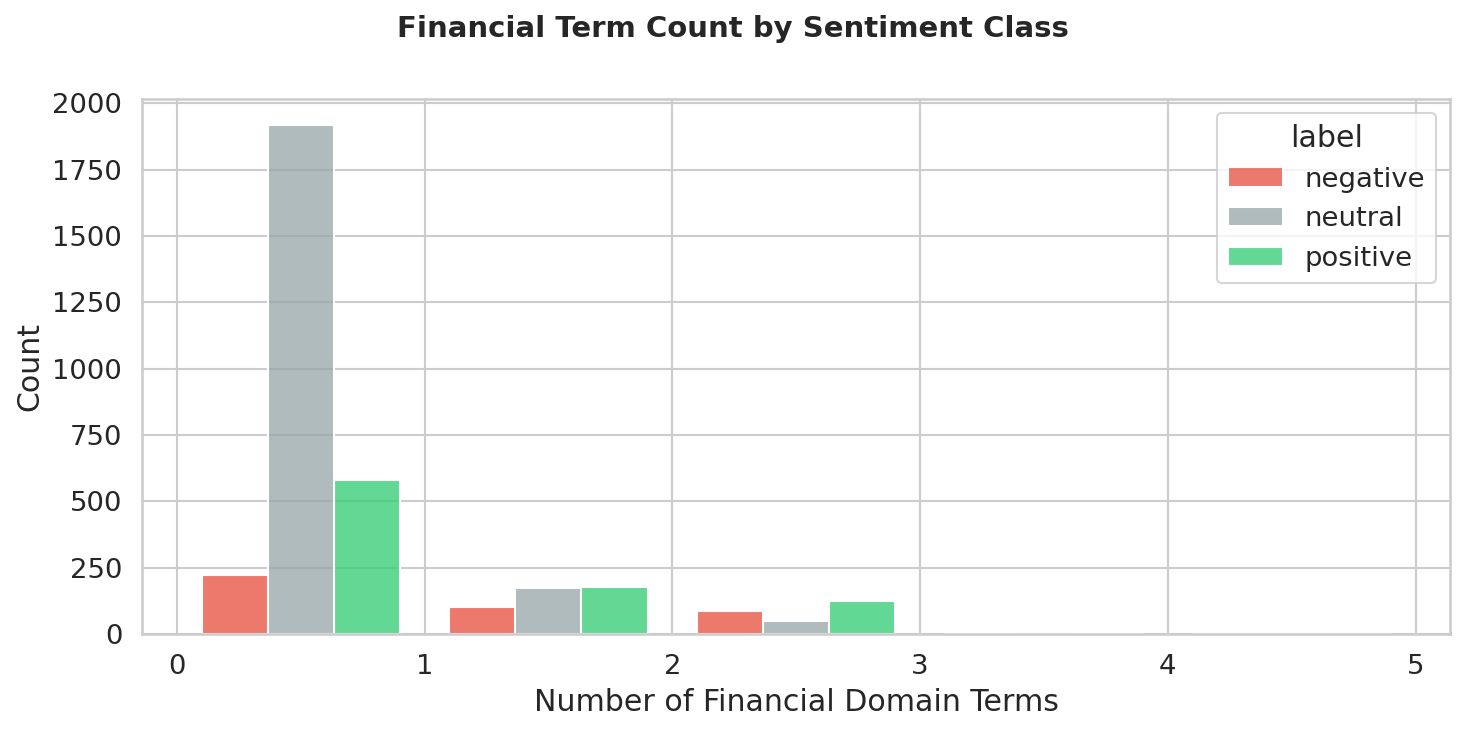
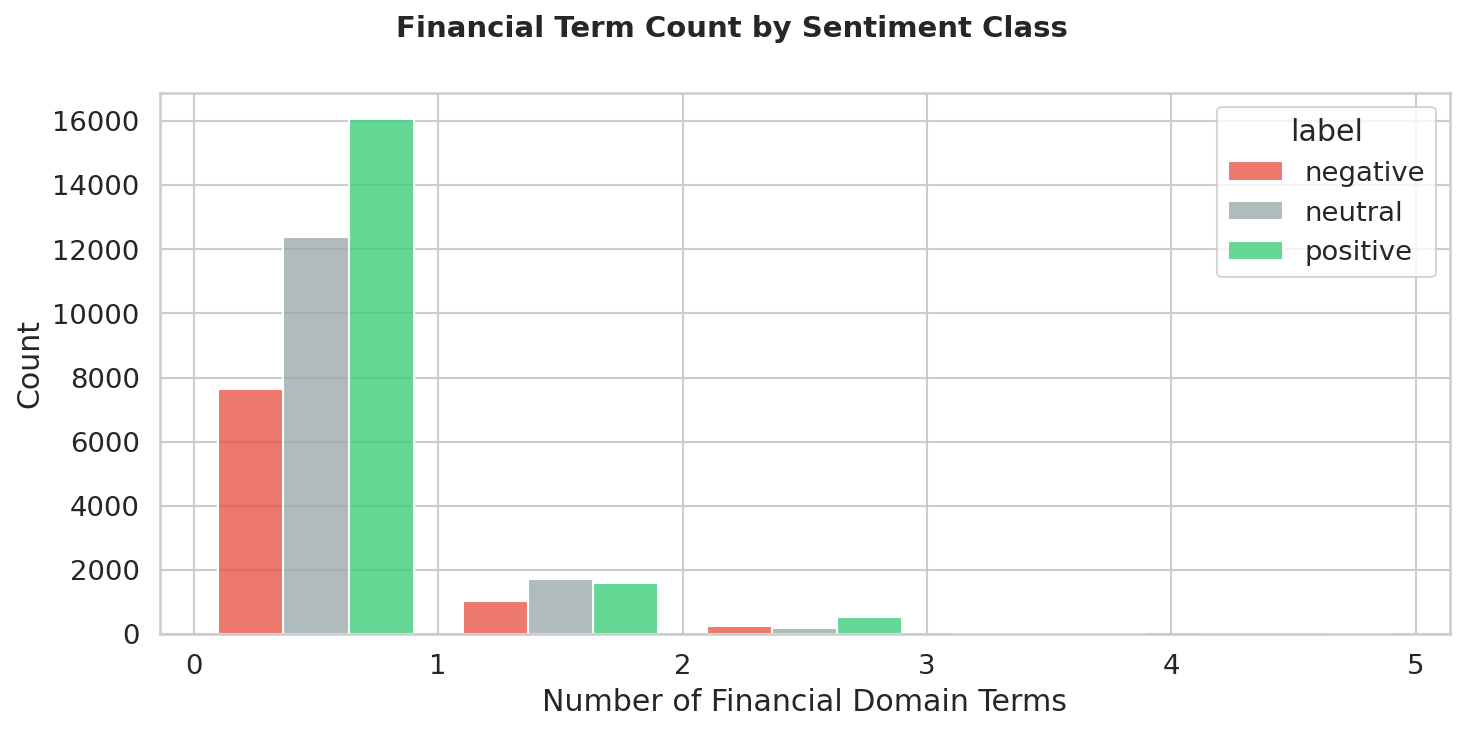
Formatting & more content

diff --git a/src/index.html b/src/index.html
@@ -51,7 +51,7 @@
 
           <div class="author-container">
             <div class="author-image">
-              <img src="./img/samantha-headshot.jpg" />
+              <img src="./img/headshots/samantha-headshot.jpg" />
             </div>
             <p>Samantha Ballesteros</p>
           </div>
@@ -114,12 +114,17 @@
         <strong>Approach:</strong>
         To accomplish this, we have cleaned a dataset (<a
           href="https://huggingface.co/datasets/takala/financial_phrasebank/tree/main/data"
-          >Financial PhraseBank from Hugging Face</a
-        >), extracted linguistic features from each sample, and have finetuned a
-        "small" LM (DistilBERT). Next, we will perform an error analysis on the
-        small LM and finetune the large model. Finally, we will train a
-        classifier (the model router) to label a sample as either best suited
-        for the small model or the large model.
+          >Financial PhraseBank</a
+        >, and
+        <a
+          href="https://huggingface.co/datasets/TimKoornstra/financial-tweets-sentiment"
+          >Financial Tweets Sentiment</a
+        >
+        from Hugging Face), extracted linguistic features from each sample, and
+        have finetuned a "small" LM (DistilBERT) and a "large" LM
+        (RoBERTa-large). Next, we will perform an error analysis on the small LM
+        outputs. Finally, we will train a classifier (the model router) to label
+        a sample as either best suited for the small model or the large model.
       </p>
       <p>
         <!-- TODO: please review :) -->
@@ -225,12 +230,19 @@
         Our system was built in various stages as reflected in the list below.
       </p>
 
-      <h3>Phase 1: Dataset Preparation & Exploration</h3>
+      <h3>
+        Phase 1: Dataset Preparation & Exploration -
+        <span class="complete">Complete</span>
+      </h3>
       <ul>
         <li>
           Clean and pre-process data (<a
             href="https://huggingface.co/datasets/takala/financial_phrasebank/tree/main/data"
-            >Hugging Face Financial PhraseBank</a
+            >Financial PhraseBank</a
+          >, and
+          <a
+            href="https://huggingface.co/datasets/TimKoornstra/financial-tweets-sentiment"
+            >Financial Tweets Sentiment</a
           >)
         </li>
         <li>
@@ -242,38 +254,51 @@
           Generate training, testing, and validation data split (70/15/15)
         </li>
       </ul>
-      <h3>Phase 2: Linguistic Feature Extraction</h3>
+      <h3>
+        Phase 2: Linguistic Feature Extraction -
+        <span class="complete">Complete</span>
+      </h3>
       <ul>
         <li>
           The linguistic features extracted for each samples were token count,
           character count, average word length, syntactic dependency tree depth,
-          clause count, count of negation tokens, count of hedging terms, named
-          entity count, entity density, financial term count, readability score
-          (Flesch reading ease from textstat), reading grade level (Flesch
-          Kincaid grade from textstat), and passive voice count.
+          clause count, count of negation tokens, density of negation tokens,
+          count of hedging terms, density of hedging terms, named entity count,
+          entity density, financial term count, readability score (Flesch
+          reading ease from textstat), reading grade level (Flesch Kincaid grade
+          from textstat), and passive voice count.
+        </li>
+        <li>
+          This list might be further narrowed down as input for the router
+          (e.g., filtering out features with variance &lt; 1%)
         </li>
       </ul>
-      <h3>Phase 3: Small Model Finetuning</h3>
+      <h3>
+        Phase 3: Small Model Finetuning - <span class="complete">Complete</span>
+      </h3>
       <ul>
         <li>TODO</li>
       </ul>
-      <h3>Phase 4: Large Model Finetuning</h3>
+      <h3>
+        Phase 4: Large Model Finetuning - <span class="complete">Complete</span>
+      </h3>
       <ul>
         <li>TODO</li>
       </ul>
-      <h3>Phase 5: Small Model Error Analysis</h3>
+      <h3>
+        Phase 5: Small Model Error Analysis
+        <span class="in-progress">In Progress</span>
+      </h3>
       <ul>
         <li>TODO</li>
       </ul>
-      <h3>Phase 6: Router Training & Evaluation</h3>
+      <h3>
+        Phase 6: Router Training & Evaluation -
+        <span class="not-started">Not Started</span>
+      </h3>
       <ul>
         <li>TODO</li>
       </ul>
-
-      <p>
-        Excepteur sint occaecat cupidatat non proident, sunt in culpa qui
-        officia deserunt mollit anim id est laborum.
-      </p>
 
       <p>
         <b
@@ -283,10 +308,13 @@
       </p>
 
       <p>
-        Sed ut perspiciatis unde omnis iste natus error sit voluptatem
-        accusantium doloremque laudantium, totam rem aperiam, eaque ipsa quae ab
-        illo inventore veritatis et quasi architecto beatae vitae dicta sunt
-        explicabo.
+        The dataset we originally intended to use was Financial PhraseBank in
+        isolation. We suspected that it might be too small, and this was
+        confirmed when we began to finetune DistilBERT on the dataset. We
+        achieved an accuracy of 97%, which left little to no room for
+        improvement with RoBERT-a. To mitigate this, we found another dataset,
+        Financial Tweets Sentiment, which combines other reputable financial
+        sentiment datasets for a total of ~41k samples.
       </p>
 
       <hr />
@@ -302,36 +330,65 @@
           you fail? Why?</b
         >
       </p>
+
       <p>
-        Nemo enim ipsam voluptatem quia voluptas sit aspernatur aut odit aut
-        fugit, sed quia consequuntur magni dolores eos qui ratione voluptatem
-        sequi nesciunt.
+        We will measure success with various metrics comparing the small model,
+        large model, purely confidence-based router, and the
+        linguistically-aware router (our solution). These metrics will include,
+        but are not limited to, accuracy, escalation rate (sent to large model),
+        and average latency.
+      </p>
+      <p>
+        The goal for accuracy would be to surpass that of the small model and to
+        have an accuracy gap recovery of at least 0.9 (achieving at least 90% of
+        the large model's performance).
       </p>
       <table>
         <thead>
           <tr>
             <th style="text-align: center"><strong>Experiment</strong></th>
-            <th style="text-align: center">1</th>
-            <th style="text-align: center">2</th>
-            <th style="text-align: center">3</th>
+            <th style="text-align: center">Accuracy</th>
+            <th style="text-align: center">Escalation Rate</th>
+            <th style="text-align: center">Average Latency</th>
           </tr>
         </thead>
         <tbody>
           <tr>
-            <td style="text-align: center"><strong>Sentence</strong></td>
-            <td style="text-align: center">Example 1</td>
-            <td style="text-align: center">Example 2</td>
-            <td style="text-align: center">Example 3</td>
+            <td style="text-align: center">
+              <strong>DistilBERT (small model)</strong>
+            </td>
+            <!-- TODO -->
+            <td style="text-align: center">TBD</td>
+            <td style="text-align: center">TBD</td>
+            <td style="text-align: center">TBD</td>
           </tr>
           <tr>
-            <td style="text-align: center"><strong>Errors</strong></td>
-            <td style="text-align: center">error A, error B, error C</td>
-            <td style="text-align: center">error C</td>
-            <td style="text-align: center">error B</td>
+            <td style="text-align: center">
+              <strong>RoBERTa-large (large model)</strong>
+            </td>
+            <td style="text-align: center">TBD</td>
+            <td style="text-align: center">TBD</td>
+            <td style="text-align: center">TBD</td>
+          </tr>
+          <tr>
+            <td style="text-align: center">
+              <strong>Confidence-based router</strong>
+            </td>
+            <td style="text-align: center">TBD</td>
+            <td style="text-align: center">TBD</td>
+            <td style="text-align: center">TBD</td>
+          </tr>
+          <tr>
+            <td style="text-align: center">
+              <strong>Linguistically-aware router</strong>
+            </td>
+            <td style="text-align: center">TBD</td>
+            <td style="text-align: center">TBD</td>
+            <td style="text-align: center">TBD</td>
           </tr>
         </tbody>
         <caption>
-          Table 1. This is Table 1's caption
+          Table 1. Experiment Results
         </caption>
       </table>
       <br />
@@ -347,13 +404,17 @@
       <!-- TODO: complete -->
 
       <p>
-        How easily are your results able to be reproduced by others? Did your
-        dataset or annotation affect other people's choice of research or
-        development projects to undertake? Does your work have potential harm or
-        risk to our society? What kinds? If so, how can you address them? What
-        limitations does your model have? How can you extend your work for
-        future research?
+        <strong>
+          How easily are your results able to be reproduced by others? Did your
+          dataset or annotation affect other people's choice of research or
+          development projects to undertake? Does your work have potential harm
+          or risk to our society? What kinds? If so, how can you address them?
+          What limitations does your model have? How can you extend your work
+          for future research?</strong
+        >
       </p>
+
+      <p>TBD</p>
 
       <hr />
     </div>

diff --git a/src/css/styles.css b/src/css/styles.css
@@ -980,3 +980,24 @@ caption {
 .eda-figures * {
   max-width: 80vw;
 }
+
+.complete,
+.in-progress,
+.not-started {
+  padding: 0 0.5em;
+}
+
+.complete {
+  color: green;
+  background-color: lightgreen;
+}
+
+.in-progress {
+  color: darkgoldenrod;
+  background-color: rgb(255, 255, 149);
+}
+
+.not-started {
+  color: darkred;
+  background-color: lightcoral;
+}
